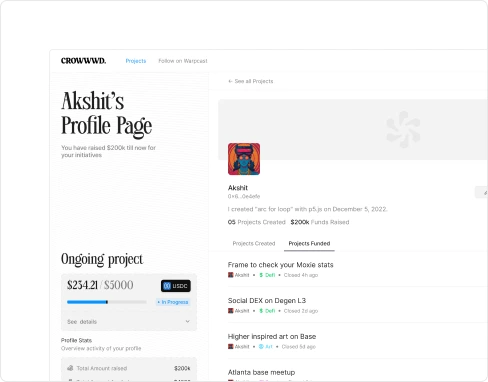
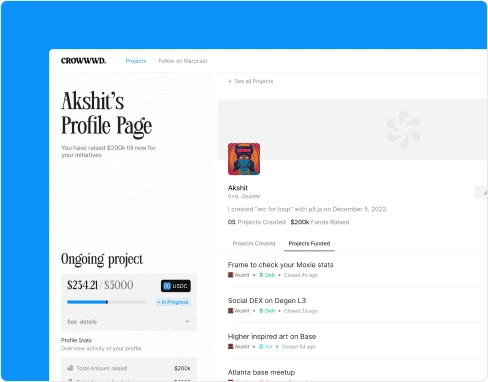
Rebrand Emerge → First Dollar, update Crowwd card
Adds First Dollar logo, hero, problem image, and full gallery.
Replaces Crowwd card thumbnail with new profile-page screen.
Cleans up unused legacy notebook hover logo frames.

Changed region(s): [[0.0, 0.0, 1.0, 1.0]]

diff --git a/WorkSection.jsx b/WorkSection.jsx
@@ -124,11 +124,28 @@ const RAW_WORK_PROJECTS = [
   },
   {
     id: 'emerge',
-    title: 'Emerge',
-    description: 'Emerge is a creative platform for visual storytelling and mini app experiences',
+    title: 'First Dollar',
+    description: 'A curated talent network of 200k+ creators, designers, developers, testers, marketers, and community builders.',
     image: '/work/emerge/card.webp',
-    tags: ['Visual Design', 'Mini App Design'],
+    logo: '/work/emerge/logo.webp',
+    tags: ['Visual Design', 'Product Design'],
     url: 'https://farcaster.xyz/miniapps/pmZbrBBIA6wT/emerge',
+    role: 'Product Designer',
+    problem: "First Dollar was built for Web3 builders but the vision was bigger than that. We wanted anyone on the internet to be able to join, find work, and earn. The existing product felt too niche, too crypto-native to make that leap.",
+    problemImage: '/work/emerge/sidebar.webp',
+    approach: [
+      "Redesigned the full product with a new visual theme — minimal, clean, and accessible without losing the existing brand identity.",
+      "Designed the Verified Talent feature giving skilled builders and creators a way to stand out and get matched with the right opportunities.",
+      "Built out the profile and showcase feature so every builder has a page that tells their story, proves their work, and can be shared anywhere on the internet.",
+    ],
+    overview: null,
+    details: null,
+    gallery: [
+      '/work/emerge/showcase.webp',
+      '/work/emerge/feed.webp',
+      '/work/emerge/contest.webp',
+      '/work/emerge/hero.webp',
+    ],
   },
 ];
 
